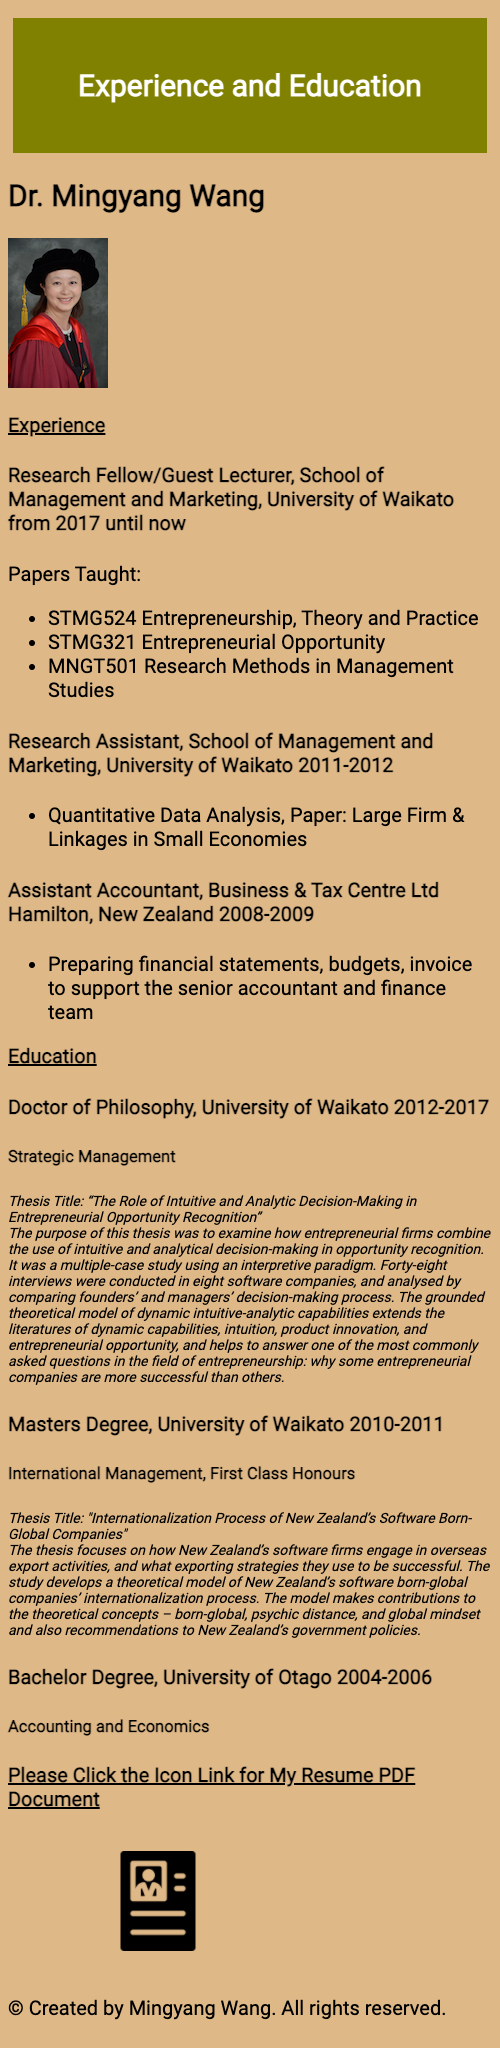
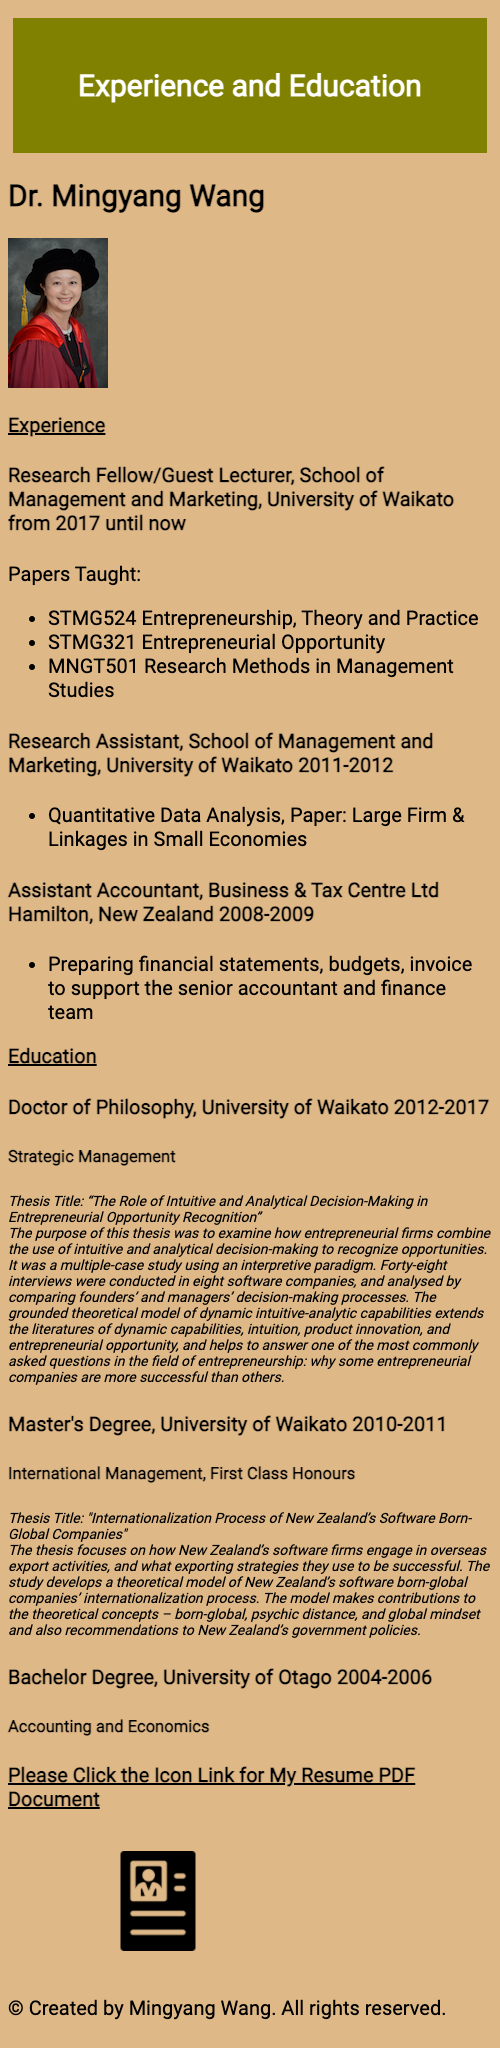
Add files via upload

Changed region(s): [[0.03, 0.5625, 0.96, 0.6562], [0.15, 0.6875, 0.87, 0.7188], [0.6, 0.5625, 0.66, 0.5938]]

diff --git a/PersonalitySkillsInterests.html b/PersonalitySkillsInterests.html
@@ -32,22 +32,22 @@
      <!-- I created an image with a responsive layout. And I also used "alt" attribute to specify an alternate text for an image, if the image cannot be displayed. -->
    
     <h3 class="subtitle">Personality</h3>
-    <p tabindex="0">I'm a curious person and open to new ideas. I like to try new technologies and have a lot of new ideas, that's why I always try learning new skills and knowledge. I'm self-discipline and awareness of my responsibilities. When I met difficulties, I proactively seek for solutions and corporate with colleagues to complete tasks. I'm sociable and love people. I often hang out with my colleagues outside of work and love to catch up with friends in the weenkends.</p>
+    <p tabindex="0">I'm a curious person and open to new ideas. I like to try new technologies and have a lot of new ideas, that's why I always try learning new skills and knowledge. I'm self-discipline and aware of my responsibilities. When I met difficulties, I proactively seek for solutions and corporate with colleagues to complete tasks. I'm sociable and loving people. I often hang out with my colleagues outside of work and love to catch up with friends in the weenkends.</p>
   </section>
 
   <section>
     <h3 class="subtitle">Skills</h3>
-    <p tabindex="0"><span class="text">Critical thinking:</span> As a researcher, the critical thinking skill is essential as we received criticisms for our research papers. I need to know what types of critiques are useful for the future directions of our research, and how to use the critiques to improve the research papers.</p>
+    <p tabindex="0"><span class="text">Critical thinking:</span> As a researcher, the critical thinking skill is essential as we received criticisms for our research papers. I need to know what types of criticisms are useful for the future directions of our research, and how to use the criticisms to improve the research papers.</p>
 
-    <p tabindex="0"> <span class="text">Problem-solving:</span> As a leading author, I have to carry majority of the work when we receive comments from reviewers. Sometime the comments can be overwhelming, I have to stay calm and show positive energy to other authors at the same time looking for solutions through discussions and trying different strategies. I often break down the problems and try to solve them piece by piece.</p>
+    <p tabindex="0"> <span class="text">Problem-solving:</span> As a leading author, I have to carry majority of the work when we received comments from reviewers. Sometime the comments can be overwhelming, I have to stay calm and show the positive energy to other authors. At the same time, I'm looking for solutions through discussions and trying different strategies. I often break down the problems and try to solve them piece by piece.</p>
 
-    <p tabindex="0"><span class="text">Communication skills:</span> Research work is about an exchange opinions between authors. We always stay in touch on Zoom, Skype, and emails. An agreement between authors for the future research direction requires a clear explanation of both theoretical and empirical reasons. We often demonstrates our reasons and ideas by drawing diagrams and writing notes to keep things simple. I also often present our work at the conferences and discuss the topic with other experts in the field.</p>
+    <p tabindex="0"><span class="text">Communication skills:</span> Research work is about exchanging opinions between authors. My colleagues and I always stay in touch on Zoom, Skype, and emails. An agreement between authors for the future research direction requires a clear explanation of both theoretical and empirical reasons. We often demonstrate our reasons and ideas by drawing diagrams and writing notes to keep things simple. I also often present our work at the conferences and discuss the topic with other experts in the field.</p>
 
-    <p tabindex="0"><span class="text">Research and analysing data skills:</span> Reading a large amount of literature and information online; collecting data by using survey and interviewing the top leaders and managers to identify common themes and make connects with theories; being able to use software (Altas.ti & SAS/STAT) to analysis huge amount of data and produce data analysis reports. During this process, my communication and critical thinking skills are very important.</p>
+    <p tabindex="0"><span class="text">Research and analysing data skills:</span> Reading a large amount of literature and information online; collecting data by using survey and interviewing the top leaders and managers to identify common themes and making connects with theories; being able to use software (Altas.ti & SAS/STAT) to analysis huge amount of data and produce data analysis reports. During this process, my communication and critical thinking skills are very important.</p>
 
-    <p tabindex="0"><span class="text">Publishing skills:</span> Ability to construct a research paper with novel ideas or contributions to literature and strong arguments based on theoretical concepts and data results, good communications with editors of journals or books; ability to polish articles into a precise way that there is no gap between theories and empirical result; being able to revise research papers with editors/reviewers' comments from journals or books; remaining positive attitude and being resilient when the papers got rejections <span class="text">(* Please see the publication details in "My Resume PDF Document")</span></p>
+    <p tabindex="0"><span class="text">Publishing skills:</span> Ability to construct a research paper with novel ideas or contributions to literature and strong arguments based on theoretical concepts and data results, good communications with editors of journals or books; ability to polish articles into a precise way that there is no gap between theories and empirical results; being able to revise research papers with editors/reviewers' comments from journals or books; remaining a positive attitude and being resilient when the papers got rejections <span class="text">(* Please see the publication details in "My Resume PDF Document")</span></p>
 
-    <p tabindex="0"><span class="text">Teaching skills:</span> Designing courses and learning materials; preparing my speech for the classes in order to delivery knowledge in a simple and interesting way (e.g. I always share my learning experience by drawing pictures or using stories to describe key concepts); getting feedback from students' questions and assignments, and making an improvement for the future classes</p>
+    <p tabindex="0"><span class="text">Teaching skills:</span> Designing courses and learning materials; preparing my speech for the classes in order to delivery knowledge in a simple, clear, and interesting way (e.g. I always share my learning experience by drawing pictures or using stories to describe key concepts); getting feedback from students' questions and assignments, and making an improvement for the future classes</p>
 
     <p tabindex="0"><span class="text">Software skills:</span> ATLAS.ti, SAS/STAT, Word, Excel, PowerPoint, Canvas, MYOB, QuickBook, etc.</p>
 
@@ -62,7 +62,7 @@
 
   <section>
     <h3 class="subtitle">Interests</h3>
-    <p tabindex="0"> I love traveling and understanding all cultures and reading history books. I like to dance flemanco, play accordions and piano, cook delicious food, and design clothes. I also enjoy knowing all the new technologies, AIs, and aerospace.</p>
+    <p tabindex="0"> I love traveling and understanding all cultures and reading history books. I like dancing flemanco, playing accordions and piano, cooking delicious food, and designing clothes. I also enjoy knowing all the new technologies, AIs, and aerospace.</p>
   </section>
   <!-- I used the tabindex attribute to indicate the paragraphs that can be focused by using Tab key -->
 

diff --git a/ExperienceandEducation.html b/ExperienceandEducation.html
@@ -55,13 +55,13 @@
       <h3 class="subtitle">Education</h3>
       <h4>Doctor of Philosophy, University of Waikato 2012-2017</h4>
        <h5>Strategic Management</h5>
-        <p class="paragraph" tabindex="0">Thesis Title: “The Role of Intuitive and Analytic Decision-Making in Entrepreneurial Opportunity Recognition”
+        <p class="paragraph" tabindex="0">Thesis Title: “The Role of Intuitive and Analytical Decision-Making in Entrepreneurial Opportunity Recognition”
           <br>
-          The purpose of this thesis was to examine how entrepreneurial firms combine the use of intuitive and analytical decision-making in opportunity recognition. It was a multiple-case study using an interpretive paradigm. Forty-eight interviews were conducted in eight software companies, and analysed by comparing founders’ and managers’ decision-making process. The grounded theoretical model of dynamic intuitive-analytic capabilities extends the literatures of dynamic capabilities, intuition, product innovation, and entrepreneurial opportunity, and helps to answer one of the most commonly asked questions in the field of entrepreneurship: why some entrepreneurial companies are more successful than others.
+          The purpose of this thesis was to examine how entrepreneurial firms combine the use of intuitive and analytical decision-making to recognize opportunities. It was a multiple-case study using an interpretive paradigm. Forty-eight interviews were conducted in eight software companies, and analysed by comparing founders’ and managers’ decision-making processes. The grounded theoretical model of dynamic intuitive-analytic capabilities extends the literatures of dynamic capabilities, intuition, product innovation, and entrepreneurial opportunity, and helps to answer one of the most commonly asked questions in the field of entrepreneurship: why some entrepreneurial companies are more successful than others.
         </p>
 
 
-      <h4>Masters Degree, University of Waikato 2010-2011</h4>
+      <h4>Master's Degree, University of Waikato 2010-2011</h4>
       <h5>International Management, First Class Honours</h5>
         <p class="paragraph" tabindex="0">Thesis Title:
           "Internationalization Process of New Zealand’s Software Born-Global Companies"

diff --git a/Blog.html b/Blog.html
@@ -39,7 +39,7 @@
   <ol>
     <li>The Top 11 Productivity Tips for Software Engineers 08/03/2022</li>
     <li>5 Reasons You Should Become a Software Developer or Engineer 01/03/2022</li>
-    <li>Why do software engineers make so much? 20/02/2022</li>
+    <li>Why Do Software Engineers Make So Much? 20/02/2022</li>
     <li>Beijing Winter Olympic Village Robot Restaurant 08/02/2022</li>
     <li>Essential Types of Software Every Business Needs 12/01/2022</li>
   </ol>
@@ -90,7 +90,7 @@
   <!-- I used unordered list tags to create a bullet list. -->
 
   <article>
-    <h2>3. Why do software engineers make so much? 20/02/2022</h2>
+    <h2>3. Why Do Software Engineers Make So Much? 20/02/2022</h2>
 
     <p>Software engineers make so much money because there is enormous demand for their skill set and not enough supply, the incredible value they bring to businesses and the general difficulty of the role. Good developers are hard to come by and the rise of technology has meant companies need more of them than ever. Technology changes a lot and the role can be quite demanding which adds to the amount developers are paid.</p>
     
@@ -105,7 +105,7 @@
   <article>
     <h2>4. Beijing Winter Olympic Village Robot Restaurant 08/02/2022</h2>
 
-    <p> The Winter Olympics opening in Beijing this week, organisers are employing a range of automated devices to ensure efficient food delivery while reducing the risk of transmission of the virus, which has brought the world to a virtual halt for two years. A robot bartender will be serving cocktails during the games</p>
+    <p> The Winter Olympics opening in Beijing this week, organisers are employing a range of automated devices to ensure efficient food delivery while reducing the risk of transmission of the virus, which has brought the world to a virtual halt for two years. A robot bartender will be serving cocktails during the games.</p>
 
     <picture>
       <source srcset="large4.png" media="(min-width: 801px)"/>
